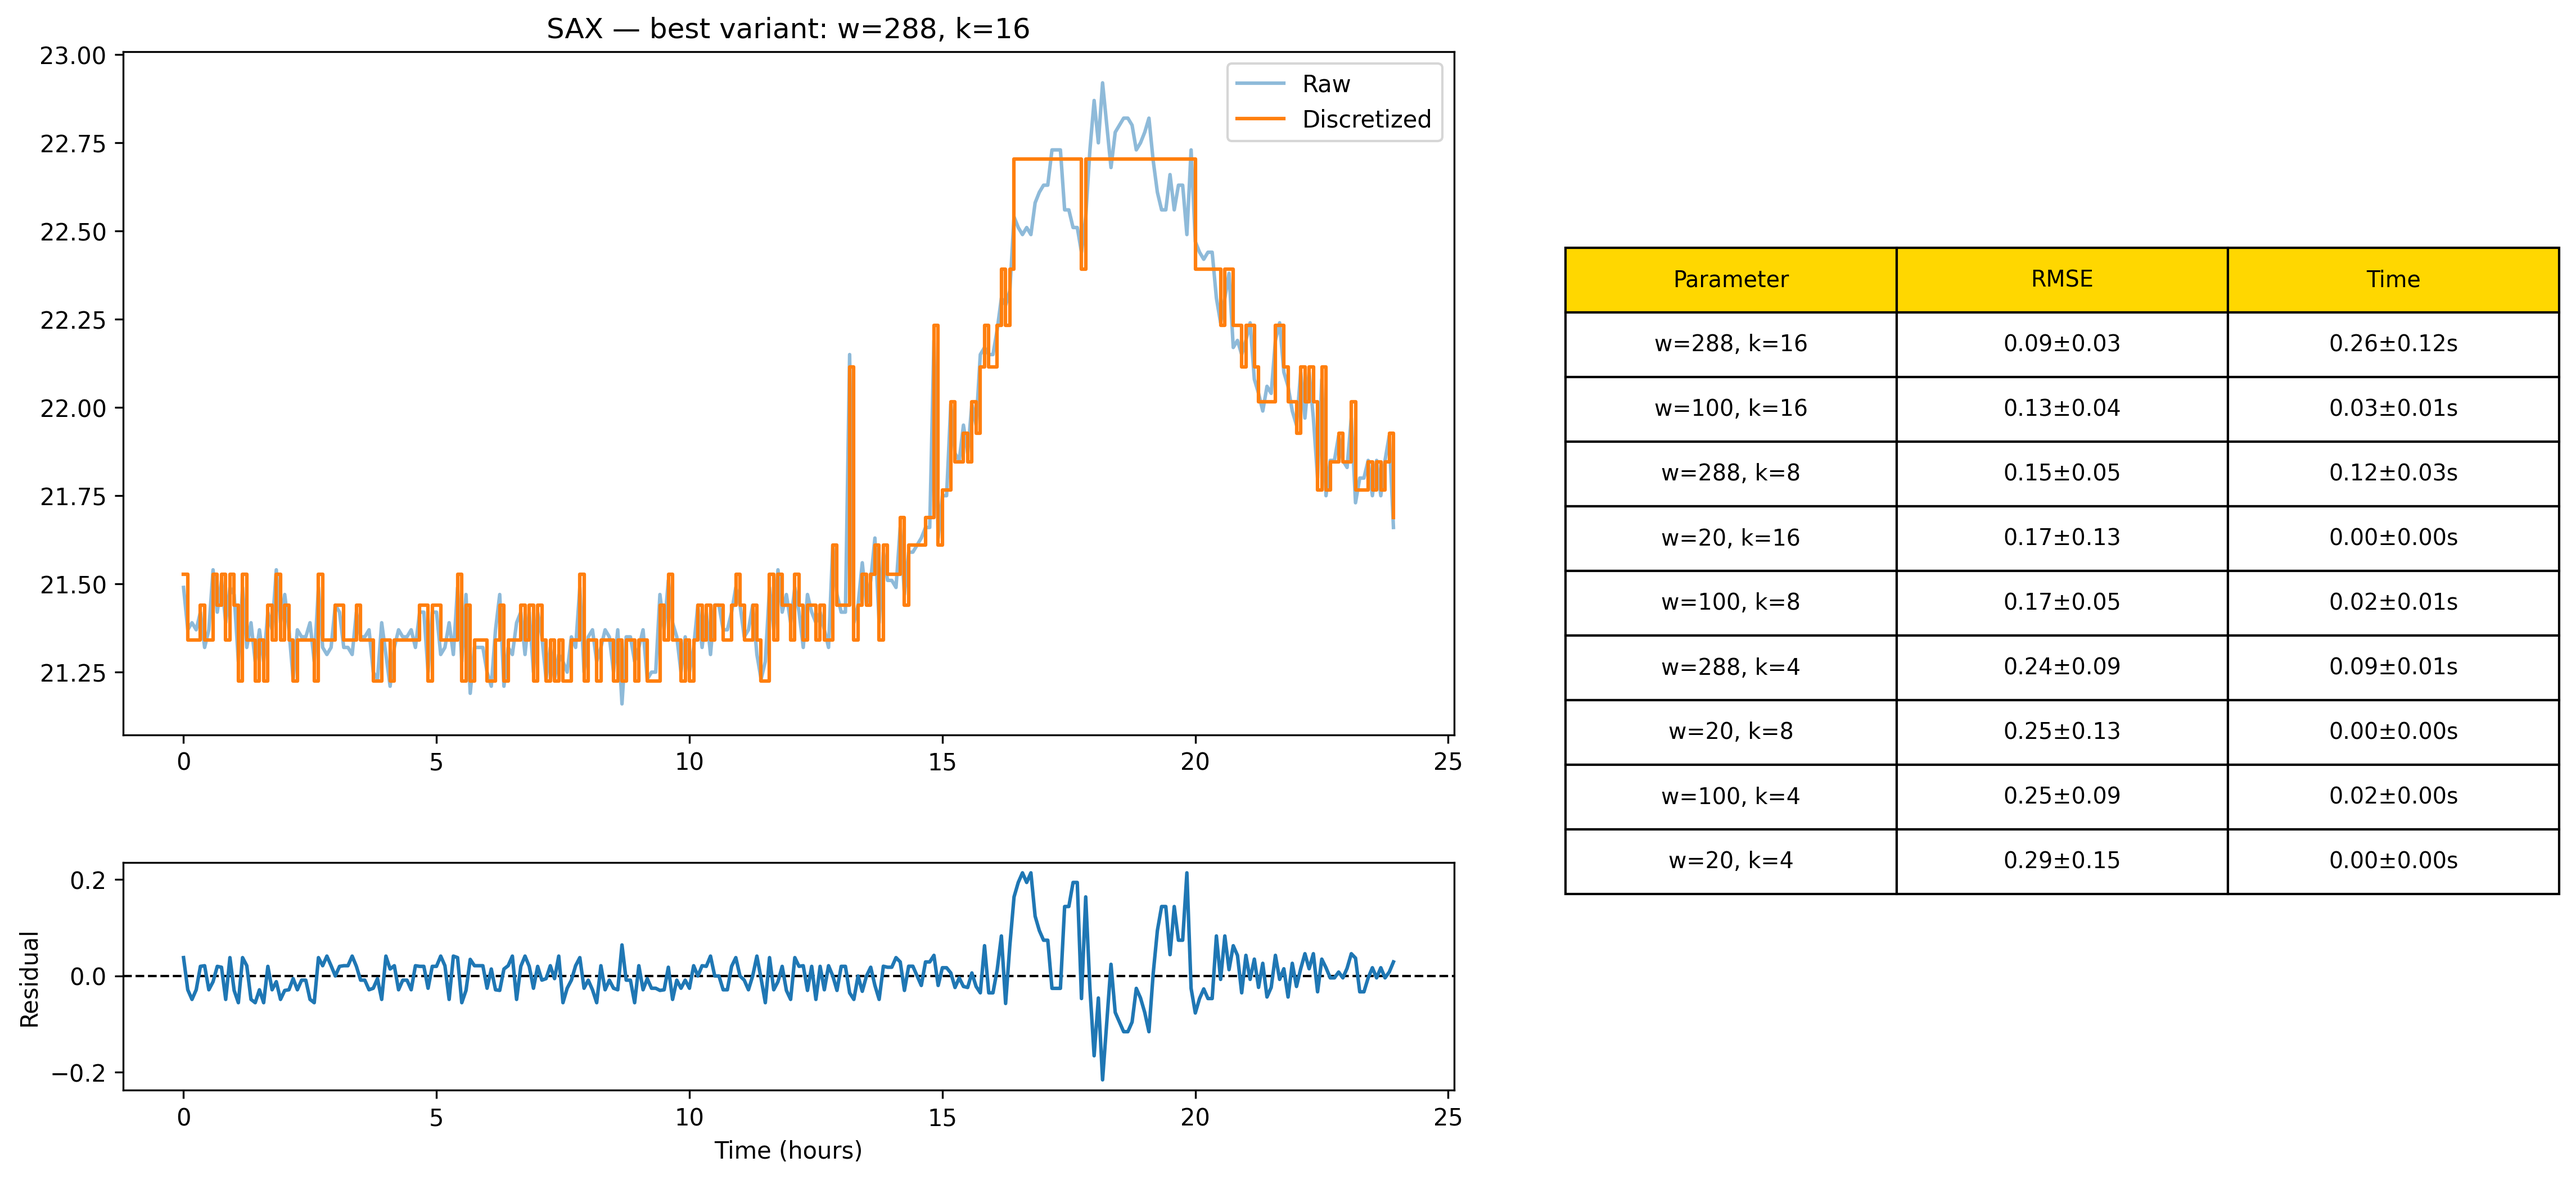
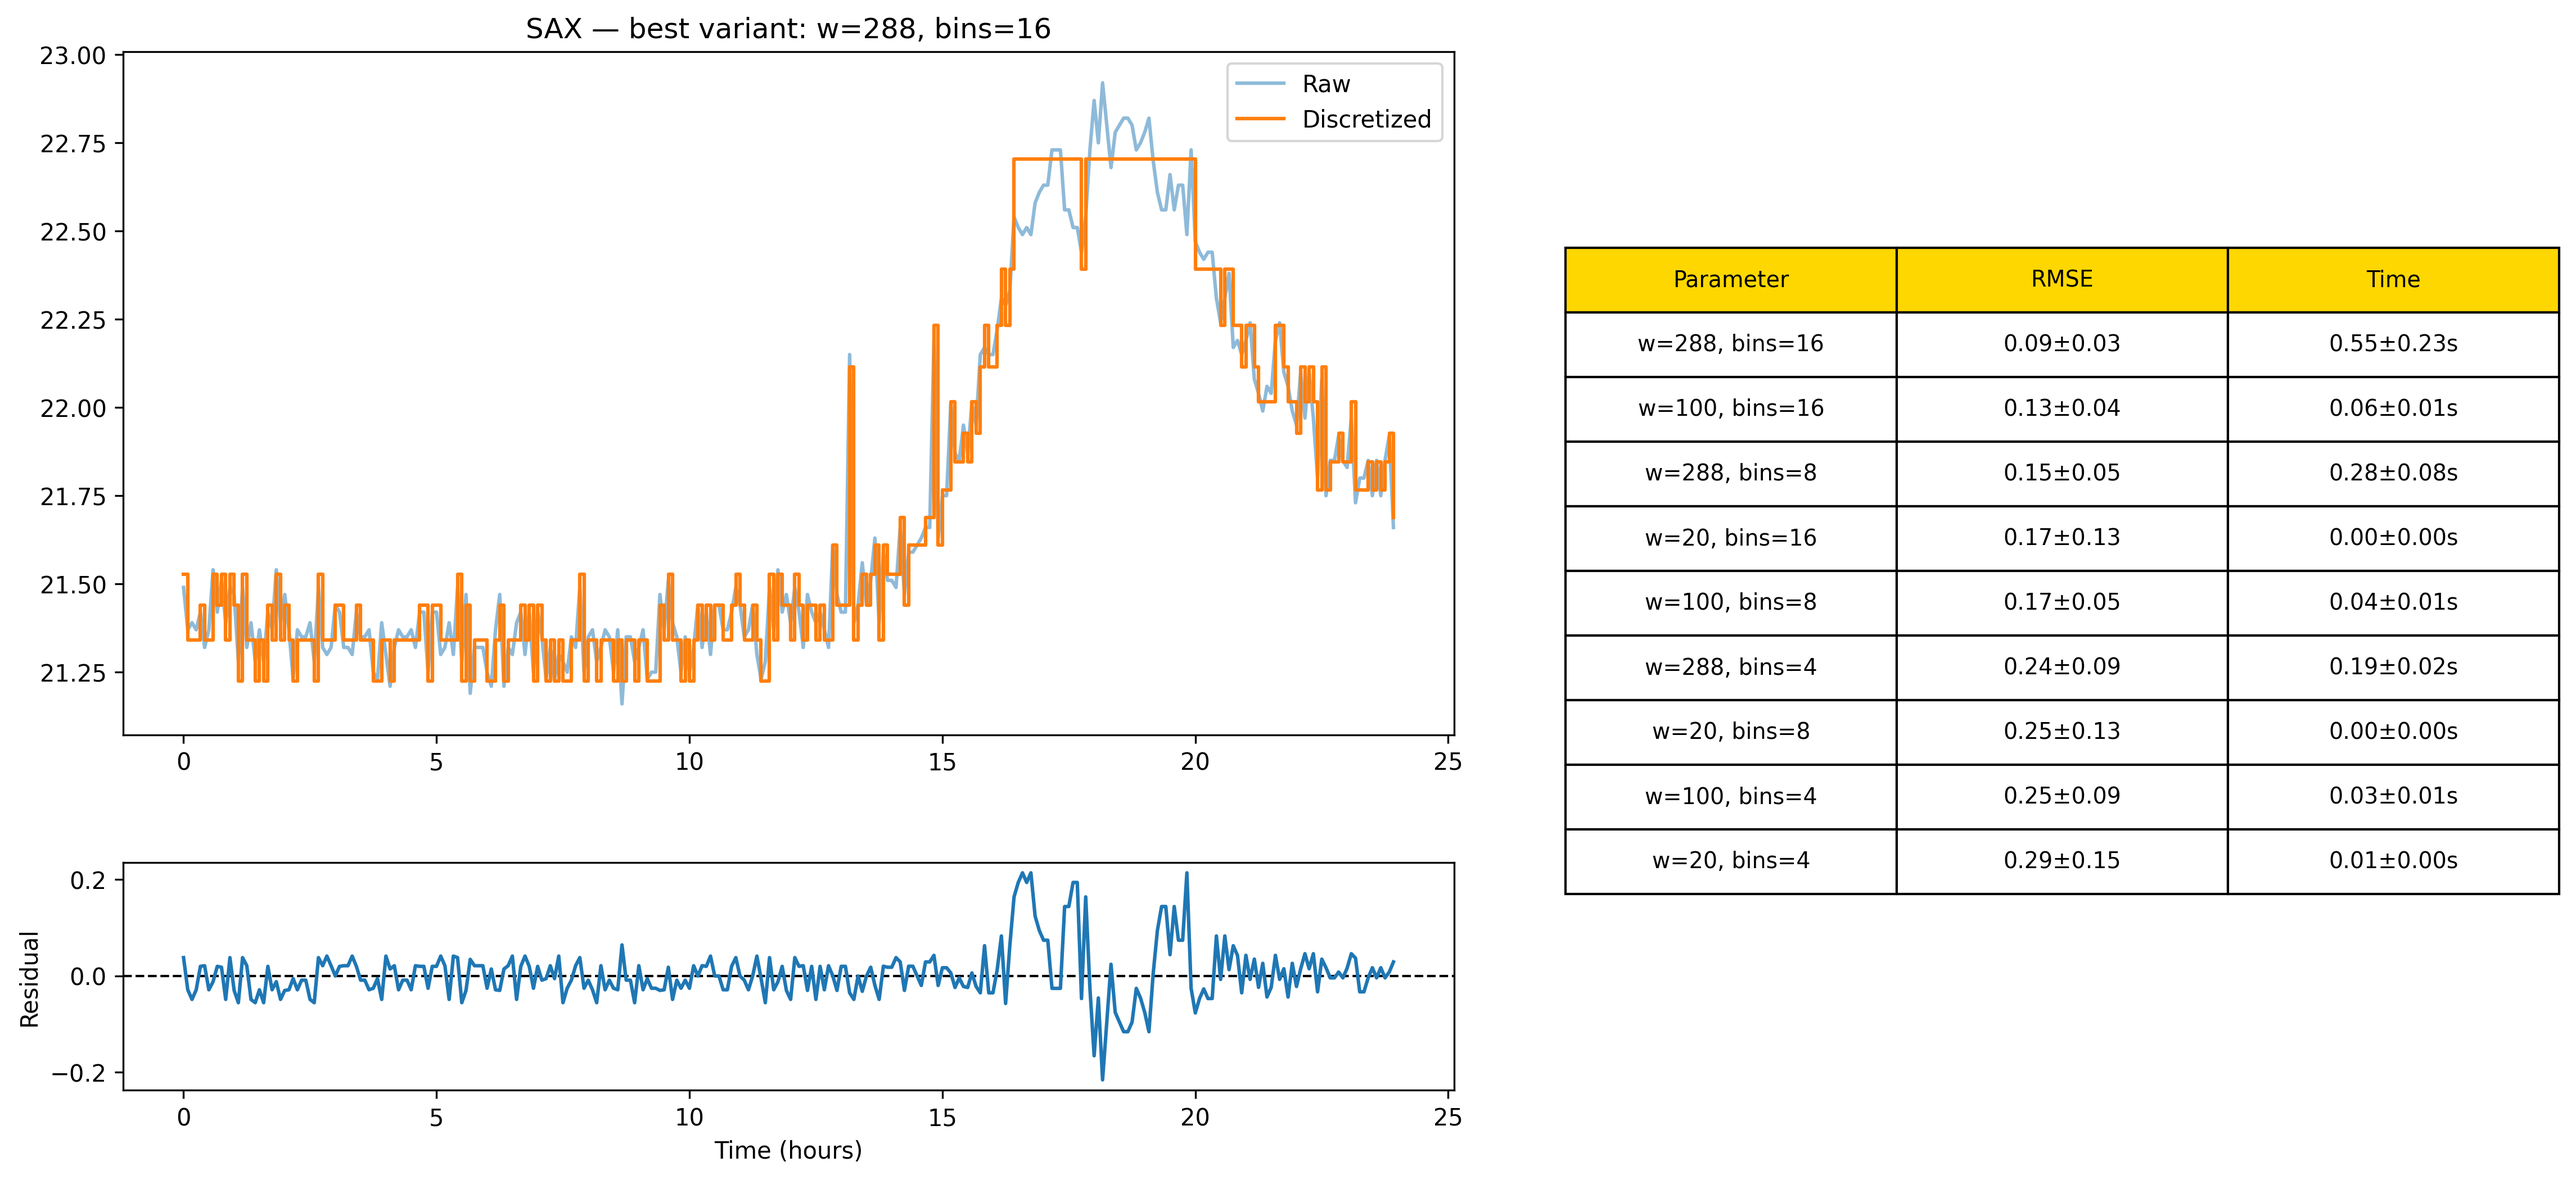
restructuring and updates

diff --git a/src/Discretization_section/scaling.py b/src/Discretization_section/scaling.py
@@ -1,0 +1,231 @@
+# scaling_experiment.py
+
+import time
+import os
+import numpy as np
+import matplotlib.pyplot as plt
+from pathlib import Path
+
+from DataProcessing.processData import get_trace_files
+from Discretization.discretizationSetup import csv_to_temp_time_list, format_output, map_bins_to_symbols
+from Discretization.naive import equal_width_discretization
+from Discretization.sax import sax_discretization_multi
+from Discretization.persist import Persist, get_best_bins, discretize_traces_with_bins, flatten_traces_to_ts
+from TAG.TALearner import TALearner
+
+
+# ---------------------------------------------------------------------------
+# HELPERS
+# ---------------------------------------------------------------------------
+
+def _discretize(method_type: str, params: dict, subset_data: list):
+    if method_type == "naive":
+        return equal_width_discretization(subset_data, k=params['bins'])
+
+    elif method_type == "sax":
+        traces, bins_z, mean_, std_ = sax_discretization_multi(
+            subset_data, w=params['w'], k=params['bins']
+        )
+        bins_c = np.sort(bins_z) * std_ + mean_
+        return traces, bins_c
+
+    elif method_type == "persist":
+        ts = flatten_traces_to_ts(subset_data)
+        persist_obj = Persist(ts, break_min=2, break_max=params['bins'], skip=np.array([4, 4]))
+        bins_c = get_best_bins(persist_obj, ts)
+        traces = discretize_traces_with_bins(subset_data, bins_c)
+        return traces, bins_c
+
+    else:
+        raise ValueError(f"Unknown method: {method_type}")
+
+
+def check_traces(folder: Path, required: int) -> None:
+    available = sorted(get_trace_files(folder_path=str(folder)))
+    print(f"Found {len(available)} trace files in:\n  {folder}")
+    if len(available) < required:
+        raise RuntimeError(
+            f"Need at least {required} traces, but only {len(available)} found."
+        )
+    print(f"Using first {required}.\n")
+
+
+# ---------------------------------------------------------------------------
+# SINGLE EXPERIMENT  — returns data for combined plot
+# ---------------------------------------------------------------------------
+
+def run_scaling_experiment(
+        all_data: list,
+        method_type: str,
+        params: dict,
+        output_folder: str,
+        max_traces: int = 20,
+        repeats: int = 5,
+        tag_k: int = 2) -> dict:
+    """
+    Runs one scaling experiment and saves its individual plot.
+    Returns a result dict for use in the combined plot.
+    """
+    os.makedirs(output_folder, exist_ok=True)
+    tmp_file = os.path.join(os.getcwd(), "_tmp_scaling_input.txt")
+
+    trace_counts = list(range(1, max_traces + 1))
+    means, stds  = [], []
+
+    for n in trace_counts:
+        subset = all_data[:n]
+
+        traces, bins_c = _discretize(method_type, params, subset)
+        actual_bins    = len(bins_c) - 1
+        symbolic_traces, _, _ = map_bins_to_symbols(traces, actual_bins, bins_c)
+        format_output(symbolic_traces, tmp_file)
+
+        run_times = []
+        for _ in range(repeats):
+            t0 = time.perf_counter()
+            TALearner(tmp_file, display=False, k=tag_k)
+            run_times.append(time.perf_counter() - t0)
+
+        m = float(np.mean(run_times))
+        s = float(np.std(run_times))
+        means.append(m)
+        stds.append(s)
+        print(f"  n={n:2d}  mean={m:.3f}s  std={s:.3f}s", flush=True)
+
+    if os.path.exists(tmp_file):
+        os.remove(tmp_file)
+
+    # --- Individual plot ---
+    label_str = "_".join(f"{k}{v}" for k, v in params.items())
+    _save_single_plot(
+        trace_counts, means, stds,
+        title=f"TA Learning Scaling — {method_type.upper()} (Mean of {repeats} Runs)",
+        out_path=os.path.join(output_folder, f"TA_Scaling_{method_type}_{label_str}.png"),
+    )
+
+    return {
+        'label':         f"{method_type.upper()} ({label_str})",
+        'trace_counts':  trace_counts,
+        'means':         means,
+        'stds':          stds,
+    }
+
+
+def _save_single_plot(trace_counts, means, stds, title, out_path):
+    fig, ax = plt.subplots(figsize=(10, 5))
+    ax.errorbar(
+        trace_counts, means, yerr=stds,
+        fmt='o-', color='navy', ecolor='navy',
+        elinewidth=1.5, capsize=6, capthick=1.5,
+        linewidth=2, markersize=5, label='Mean Learning Time',
+    )
+    ax.set_xlabel("Number of Input Traces (Training Set Size)")
+    ax.set_ylabel("Time (seconds)")
+    ax.set_title(title)
+    ax.set_xticks(trace_counts)
+    ax.grid(True, linestyle='--', alpha=0.5)
+    ax.legend()
+    fig.tight_layout()
+    fig.savefig(out_path, bbox_inches='tight', dpi=300)
+    plt.close(fig)
+    print(f"Saved → {out_path}")
+
+
+# ---------------------------------------------------------------------------
+# COMBINED PLOT
+# ---------------------------------------------------------------------------
+
+# One distinct color per line
+_COLORS = ['navy', 'firebrick', 'forestgreen', 'darkorange', 'purple', 'teal']
+
+def plot_combined_scaling(results: list, output_folder: str, repeats: int) -> None:
+    """
+    Plots all experiment results on one axes with one line per experiment.
+
+    Args:
+        results:       List of dicts returned by run_scaling_experiment.
+        output_folder: Where to save the PNG.
+        repeats:       Used only for the title string.
+    """
+    fig, ax = plt.subplots(figsize=(12, 6))
+
+    for result, color in zip(results, _COLORS):
+        ax.errorbar(
+            result['trace_counts'],
+            result['means'],
+            yerr=result['stds'],
+            fmt='o-',
+            color=color,
+            ecolor=color,
+            elinewidth=1.2,
+            capsize=5,
+            capthick=1.2,
+            linewidth=2,
+            markersize=4,
+            label=result['label'],
+        )
+
+    ax.set_xlabel("Number of Input Traces (Training Set Size)")
+    ax.set_ylabel("Time (seconds)")
+    ax.set_title(f"TA Learning Scaling — All Methods (Mean of {repeats} Runs)")
+    ax.set_xticks(results[0]['trace_counts'])
+    ax.grid(True, linestyle='--', alpha=0.5)
+    ax.legend()
+    fig.tight_layout()
+
+    out_path = os.path.join(output_folder, "TA_Scaling_combined.png")
+    fig.savefig(out_path, bbox_inches='tight', dpi=300)
+    plt.close(fig)
+    print(f"Saved → {out_path}")
+
+
+# ---------------------------------------------------------------------------
+# MAIN
+# ---------------------------------------------------------------------------
+
+if __name__ == "__main__":
+
+    BASE_DIR     = Path(__file__).resolve().parent.parent.parent
+   # TRACE_FOLDER = BASE_DIR / "Data" / "3-ExtractInterval" / "1day-experiment" / "roomA"
+    TRACE_FOLDER = BASE_DIR / "Data" / "synthetic_data" / "clean"
+    OUT_DIR      = BASE_DIR / "Data" / "Graphs" / "TA_Scaling-5-100-5-10-noRepeat"
+
+    MAX_TRACES = 20
+    REPEATS    = 1
+    TAG_K      = 2
+
+    EXPERIMENTS = [
+        ("naive",   {'bins': 5}),
+        ("sax",     {'w': 288, 'bins': 5}),
+        ("persist", {'bins': 5}),
+    ]
+
+    check_traces(TRACE_FOLDER, MAX_TRACES)
+
+    # Load once, reuse across all experiments
+    all_files = sorted(get_trace_files(folder_path=str(TRACE_FOLDER)))[:MAX_TRACES]
+    all_data  = csv_to_temp_time_list(input_files=all_files)
+
+    all_results = []
+
+    for method_type, params in EXPERIMENTS:
+        print(f"{'=' * 60}")
+        print(f"  Method : {method_type.upper()}")
+        print(f"  Params : {params}")
+        print(f"  Traces : 1–{MAX_TRACES}  |  Repeats : {REPEATS}  |  k : {TAG_K}")
+        print(f"{'=' * 60}")
+
+        result = run_scaling_experiment(
+            all_data      = all_data,
+            method_type   = method_type,
+            params        = params,
+            output_folder = str(OUT_DIR),
+            max_traces    = MAX_TRACES,
+            repeats       = REPEATS,
+            tag_k         = TAG_K,
+        )
+        all_results.append(result)
+        print()
+
+    plot_combined_scaling(all_results, str(OUT_DIR), REPEATS)
+    print("All experiments done.")

diff --git a/src/Discretization_section/discretization_comparison_naive_sax_persist.py b/src/Discretization_section/discretization_comparison_naive_sax_persist.py
@@ -60,30 +60,30 @@ def run_ta_pipeline(method_type, params, single_trace_data, tag_k=2):
     tmp_file = os.path.join(os.getcwd(), "tmp_ta_learning_data.txt")
 
     if method_type == "naive":
-        traces, bins_c = equal_width_discretization(single_trace_data, k=params['k'])
+        traces, bins_c = equal_width_discretization(single_trace_data, k=params['bins'])
 
     elif method_type == "persist":
         ts = flatten_traces_to_ts(single_trace_data)
-        persist_obj = Persist(ts, break_min=2, break_max=params['k'], skip=np.array([4, 4]))
+        persist_obj = Persist(ts, break_min=2, break_max=params['bins'], skip=np.array([4, 4]))
         bins_c  = get_best_bins(persist_obj, ts)
         traces  = discretize_traces_with_bins(single_trace_data, bins_c)
 
     elif method_type == "sax":
         traces, bins_z, mean_, std_ = sax_discretization_multi(
-            single_trace_data, w=params['w'], k=params['k']
+            single_trace_data, w=params['w'], k=params['bins']
         )
         bins_c = sax_bins_celsius(bins_z, mean_, std_)
 
     else:
         raise ValueError(method_type)
 
-    actual_k = len(bins_c) - 1
+    actual_bins = len(bins_c) - 1
 
-    symbolic_trace, symbol_map, _ = map_bins_to_symbols(traces, actual_k, bins_c)
+    symbolic_trace, symbol_map, _ = map_bins_to_symbols(traces, actual_bins, bins_c)
     format_output(symbolic_trace, tmp_file)
     _ = TALearner(tmp_file, display=False, k=tag_k)
 
-    return traces, bins_c, actual_k
+    return traces, bins_c, actual_bins
 
 
 # ---------------------------------------------------------------------------
@@ -109,17 +109,17 @@ def compare_discretization_params(
         per_trace_rmse  = []
         per_trace_times = []
         plot_t_d = plot_v_d = plot_resids = None
-        actual_k = None
+        actual_bins = None
 
-        per_trace_k = []
+        per_trace_bins = []
 
         for i, (trace_path, trace_data) in enumerate(zip(trace_files, data_lists)):
 
             t_i, v_i = load_trace(trace_path)
 
             start = time.perf_counter()
-            disc_traces, bins_c, actual_k = run_ta_pipeline(method_type, params, [trace_data])
-            per_trace_k.append(actual_k)
+            disc_traces, bins_c, actual_bins = run_ta_pipeline(method_type, params, [trace_data])
+            per_trace_bins.append(actual_bins)
             elapsed = time.perf_counter() - start
 
             per_trace_times.append(elapsed)
@@ -144,11 +144,11 @@ def compare_discretization_params(
             'rmse_std':  std_rmse,
             'time_mean': mean_time,
             'time_std':  std_time,
-            'actual_k':  actual_k,
+            'actual_bins':  actual_bins,
             't_d':       plot_t_d,
             'v_d':       plot_v_d,
             'resids':    plot_resids,
-            'per_trace_k': per_trace_k,
+            'per_trace_bins': per_trace_bins,
         })
 
     # -----------------------------------------------------------------------
@@ -183,13 +183,13 @@ def compare_discretization_params(
         table_data = [
             [
                 r['label'],
-                ", ".join(map(str, r['per_trace_k'])),
+                ", ".join(map(str, r['per_trace_bins'])),
                 f"{r['rmse_mean']:.2f}±{r['rmse_std']:.2f}",
                 f"{r['time_mean']:.2f}±{r['time_std']:.2f}s"
             ]
             for r in results
         ]
-        cols = ["Parameter", "k per trace", "RMSE", "Time"]
+        cols = ["Parameter", "bins per trace", "RMSE", "Time"]
     else:
         table_data = [
             [r['label'],
@@ -237,7 +237,7 @@ if __name__ == "__main__":
     # -----------------------------------------------------------------------
     # NAIVE
     # -----------------------------------------------------------------------
-    naive_vars = {f"k={k}": ("naive", {'k': k}) for k in [2, 4, 6, 8, 10, 12, 14, 16]}
+    naive_vars = {f"bins={bins}": ("naive", {'bins': bins}) for bins in [2, 4, 6, 8, 10, 12, 14, 16]}
 
     compare_discretization_params(
         "Naive", t_raw, v_raw, naive_vars, data_lists, trace_files, out_dir
@@ -247,9 +247,9 @@ if __name__ == "__main__":
     # SAX
     # -----------------------------------------------------------------------
     sax_vars = {
-        f"w={w}, k={k}": ("sax", {'w': w, 'k': k})
+        f"w={w}, bins={bins}": ("sax", {'w': w, 'bins': bins})
         for w in [20, 100, 288]
-        for k in [4, 8, 16]
+        for bins in [4, 8, 16]
     }
 
     compare_discretization_params(
@@ -259,7 +259,7 @@ if __name__ == "__main__":
     # -----------------------------------------------------------------------
     # PERSIST
     # -----------------------------------------------------------------------
-    persist_vars = {f"k_max={k}": ("persist", {'k': k}) for k in [2, 4, 6, 8, 10, 12, 14, 16]}
+    persist_vars = {f"bins_max={bins}": ("persist", {'bins': bins}) for bins in [2, 4, 6, 8, 10, 12, 14, 16]}
 
     compare_discretization_params(
         "Persist", t_raw, v_raw, persist_vars, data_lists, trace_files, out_dir

diff --git a/src/2-Synthetic_section/synthetic_test.py b/src/2-Synthetic_section/synthetic_test.py
@@ -188,7 +188,7 @@ def generate_negative_trace_set(n_traces=20, seed=99):
 # ---------------------------------------------------------------------------
 
 if __name__ == "__main__":
-    out_root = Path("../Data/synthetic_data")
+    out_root = Path("../../Data/synthetic_data")
 
 
 
